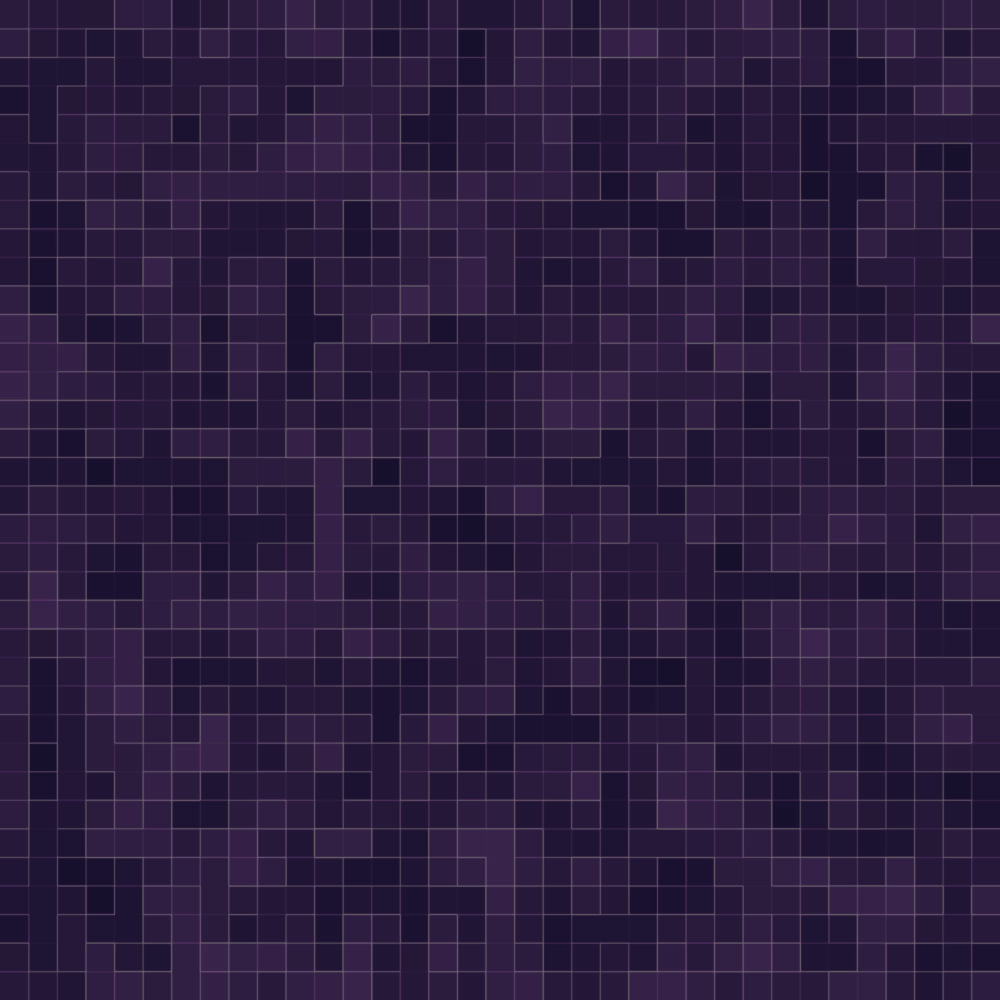
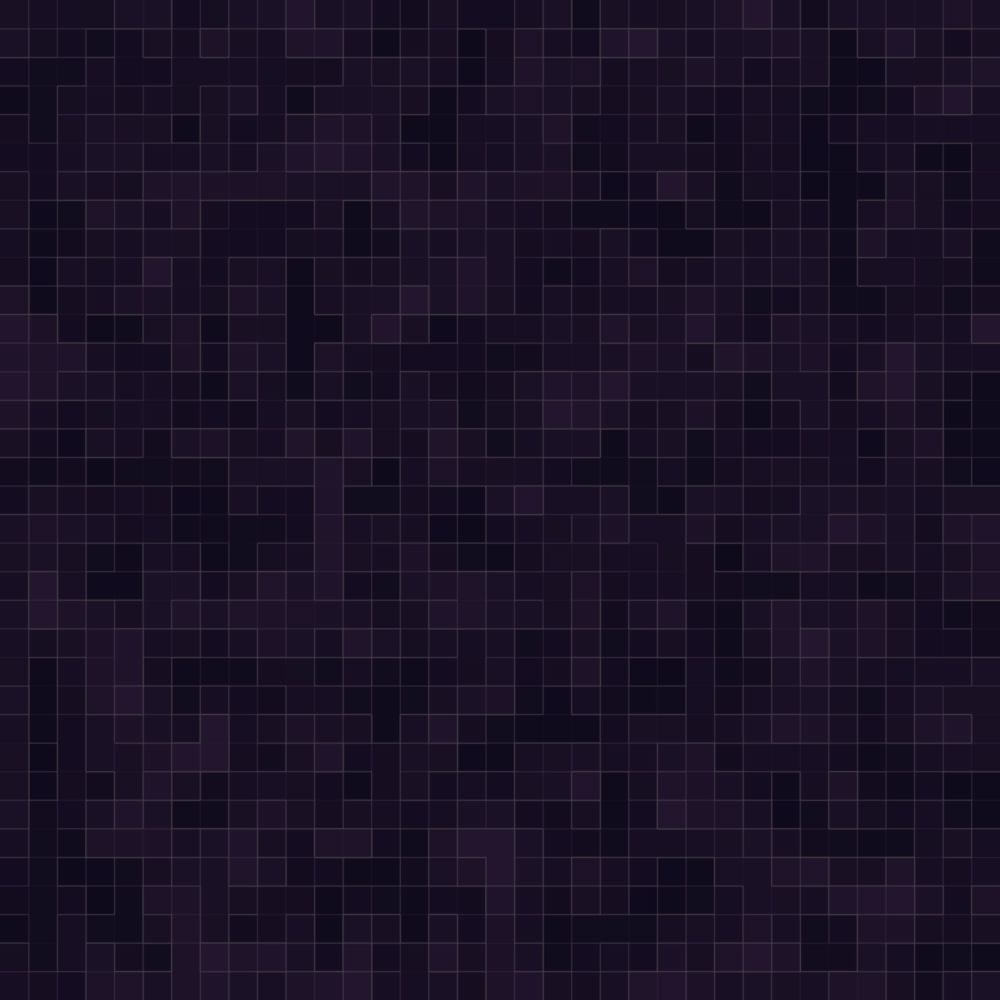
update background + color refinements

diff --git a/static/styles/styles.css b/static/styles/styles.css
@@ -16,7 +16,7 @@ a {
     top: 0;
     left: 0;
     width: 100%;
-    height: 360vh;
+    height: 280vh;
     background-image: url("/static/images/purple_background.png");
     background-size: calc(100% / 3) auto; /* x-repeat 3 times */
     background-repeat: repeat;
@@ -25,7 +25,7 @@ a {
 
 /* Navigation Bar Styles */
 .navbar {
-    background-color: #2d2d44;
+    background-color: #322d44;
     border-bottom-left-radius: 15px;
     border-bottom-right-radius: 15px;
     box-shadow: 0 4px 10px rgba(0, 0, 0, 0.5);
@@ -45,7 +45,12 @@ a {
 }
 
 .nav-link {
-    color: #ececec !important;
+    color: #ececec;
+    background-color: #252329;
+    border-radius: 0.4em;
+    margin-left: 0.7em;
+    padding: 0.3em 0.6em !important;
+    box-shadow: 0 3px 6px rgba(0, 0, 0, 0.5);
 }
 
 .navbar-brand:hover,
@@ -58,7 +63,7 @@ a {
     max-width: 900px;
     margin: 20px auto;
     padding: 20px;
-    background-color: #2d2d44;
+    background-color: #322d44;
     border-radius: 15px;
     box-shadow: 0 8px 20px rgba(0, 0, 0, 0.6);
 }
@@ -66,7 +71,8 @@ a {
 /* Header Styles */
 .header-image {
     width: 100%;
-    border-radius: 15px;
+    border-radius: 0.7em;
+    box-shadow: 0 8px 20px rgba(0, 0, 0, 0.6);
 }
 
 .header-title {
@@ -83,7 +89,7 @@ a {
 
 /* Card Styles */
 .body-card {
-    background-color: #3b3b5e;
+    background-color: #423b5e;
     margin-bottom: 20px;
     border-radius: 10px;
     padding: 20px;
@@ -144,13 +150,13 @@ a {
 
 @keyframes flash-yellow {
     0% {
-        background-color: #ffc107;
+        background-color: #e3ac05;
     }
     50% {
         background-color: #9b8f29;
     }
     100% {
-        background-color: #ffc107;
+        background-color: #e3ac05;
     }
 }
 
@@ -167,7 +173,7 @@ a {
 }
 
 .flash-positive {
-    animation: flash-green 1.3s infinite alternate ease-in-out;
+    animation: flash-green 1.4s infinite alternate ease-in-out;
 }
 
 .flash-neutral {
@@ -175,13 +181,13 @@ a {
 }
 
 .flash-negative {
-    animation: flash-red 1.7s infinite alternate ease-in-out;
+    animation: flash-red 1.6s infinite alternate ease-in-out;
 }
 
 /* Top Games Section */
 .top-games {
     border-radius: 10px;
-    background-color: #3b3b5e;
+    background-color: #423b5e;
     margin: 20px 0;
     padding: 10px 20px;
     box-shadow: 0 4px 10px rgba(0, 0, 0, 0.4);
@@ -191,6 +197,7 @@ a {
     object-fit: cover;
     height: 5em;
     border-radius: 5px;
+    box-shadow: 0 4px 10px rgba(0, 0, 0, 0.4);
 }
 
 .game-counts {
@@ -219,6 +226,7 @@ footer {
 .summary-image video {
     border-radius: 0.5em;
     width: 100%;
+    box-shadow: 0 4px 10px rgba(0, 0, 0, 0.4);
 }
 
 .summary-content {
@@ -262,7 +270,7 @@ footer {
 /* Review Section */
 .review-box {
     border-radius: 10px;
-    background-color: #3b3b5e;
+    background-color: #423b5e;
     margin: 20px 0;
     padding: 10px 20px;
     box-shadow: 0 4px 10px rgba(0, 0, 0, 0.4);

diff --git a/core/templates/index.html b/core/templates/index.html
@@ -33,10 +33,10 @@
                     <span class="navbar-toggler-icon"></span>
                 </button>
                 <!-- Collapsible navbar content -->
-                <div class="collapse navbar-collapse" id="navbarNav">
+                <div class="collapse navbar-collapse pe-2" id="navbarNav">
                     <ul class="navbar-nav ms-auto">
                         <li class="nav-item">
-                            <a class="nav-link" href="#">Home</a>
+                            <a class="nav-link" href="#"><b>Home</b></a>
                         </li>
                         <li class="nav-item">
                             <a class="nav-link" href="#sentiment-section">Sentiment</a>
@@ -152,7 +152,7 @@
                             <button type="button" class="btn btn-dark disabled">Random Review</button>
                             <button type="button" class="btn btn-success flash-positive"
                                 onclick="getReview(this)">Positive</button>
-                            <button type="button" class="btn btn-warning flash-neutral"
+                            <button type="button" class="btn btn-warning text-white flash-neutral"
                                 onclick="getReview(this)">Neutral</button>
                             <button type="button" class="btn btn-danger flash-negative"
                                 onclick="getReview(this)">Negative</button>
@@ -444,8 +444,14 @@
     <script>
         window.addEventListener("scroll", function () {
             let scrolled = window.scrollY;
-            document.querySelector(".parallax").style.transform = `translateY(${scrolled * -0.3}px)`;
+            document.querySelector(".parallax").style.transform = `translateY(${scrolled * -0.15}px)`;
         });
+    </script>
+    <!-- Summarize cluster top picks -->
+    <script>
+        for (i = 0; i < 4; i++) {
+            getSummarization(i);
+        }
     </script>
 
 </body>

diff --git a/static/js/scripts.js b/static/js/scripts.js
@@ -184,8 +184,3 @@ const getSummarization = (i) => {
             document.querySelector(`#summ-contra-${topic}`).innerHTML = result.summarization[1];
         });
 };
-
-// Call function for every topic
-for (i = 0; i < 4; i++) {
-    getSummarization(i);
-}
